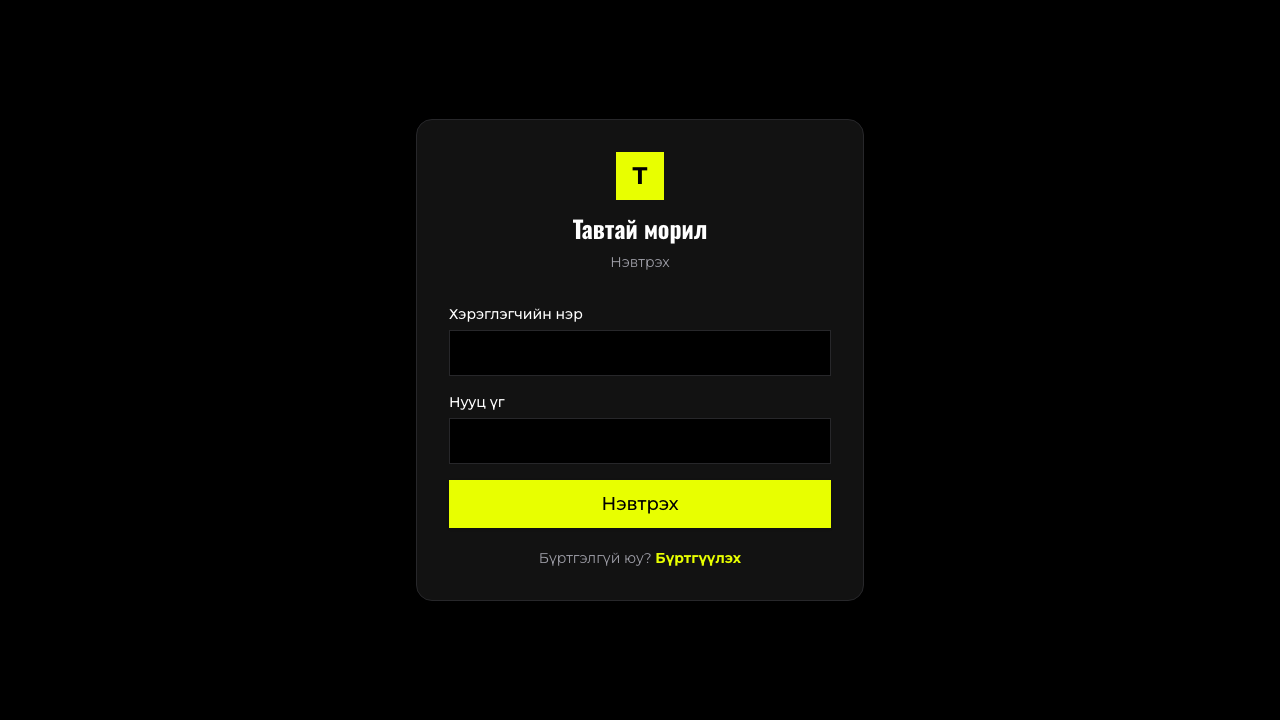
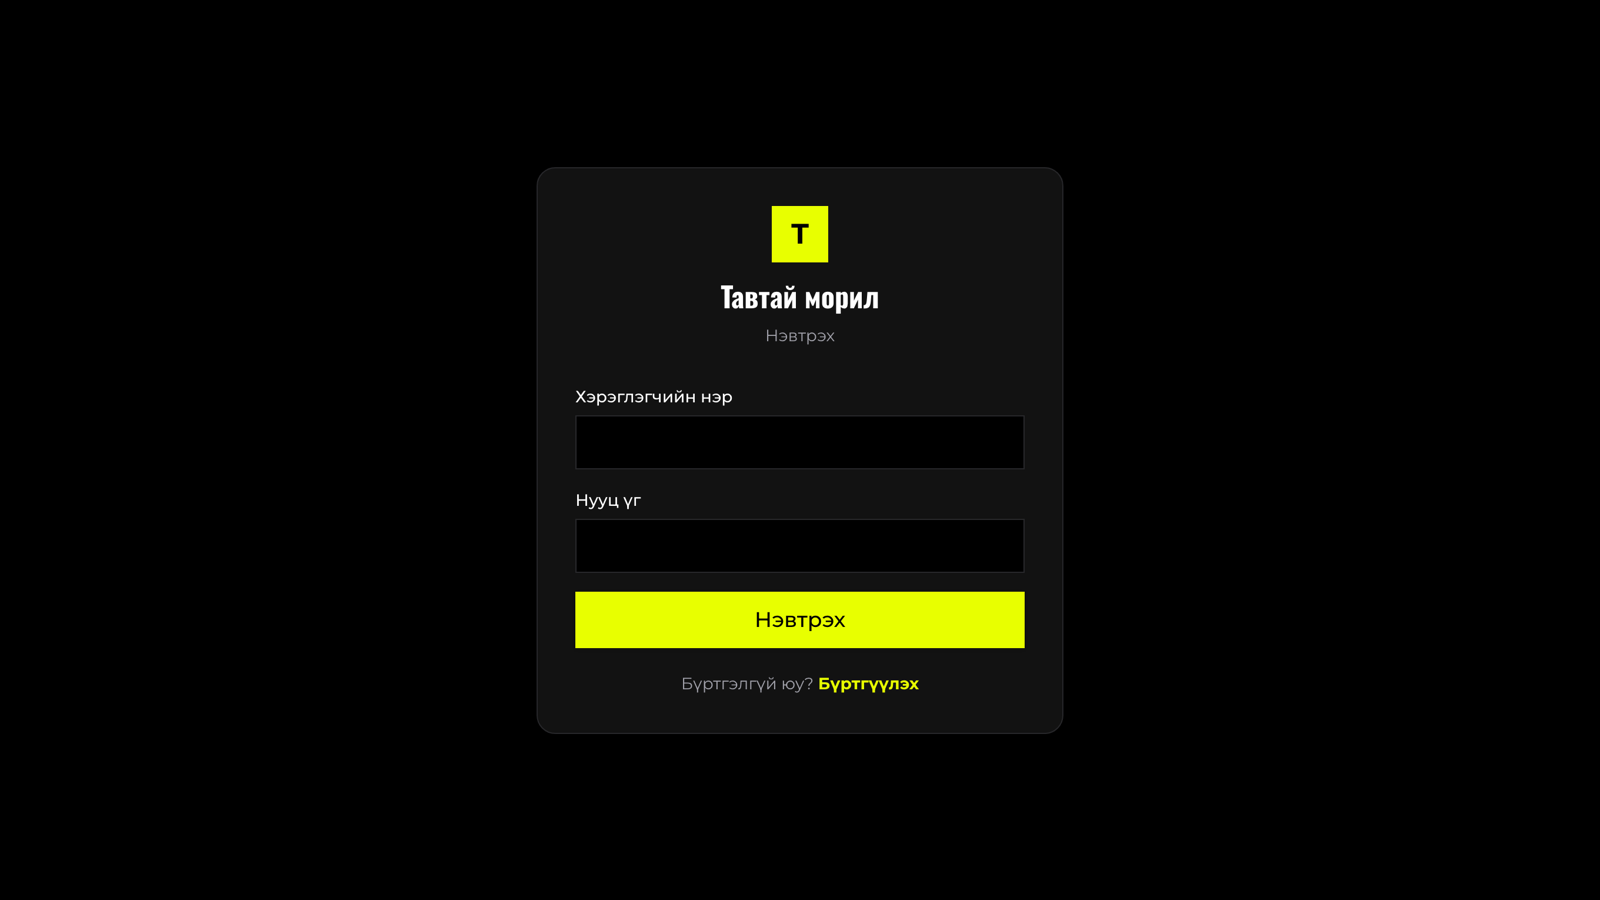
Add Personal Life OS and Zity Shop projects, replace placeholder covers with real site screenshots

diff --git a/src/data/constants.js b/src/data/constants.js
@@ -262,6 +262,30 @@ export const educationMn = [
 
 export const projectsMn = [
   {
+    id: 26,
+    title: "Personal Life OS",
+    date: "2026 оны 8 сар - Одоо",
+    description:
+      "AI-д суурилсан хувийн амьдралын удирдлагын систем. Өдөр тутмын төлөвлөгөө, зорилго, дадал, тэмдэглэл, календарь, цаг агаарын мэдээллийг нэг дороос удирдах Life OS платформ. Next.js frontend, FastAPI backend, Docker infrastructure бүхий monorepo бүтэцтэй.",
+    image: "/img/projects/personal-lifestyle.png",
+    tags: ["Next Js", "TypeScript", "FastAPI", "PostgreSQL", "Docker"],
+    category: "web app",
+    github: "https://github.com/unenbat623/personal-lifestyle",
+    webapp: "https://web-omega-one-16.vercel.app/",
+  },
+  {
+    id: 27,
+    title: "Zity Shop",
+    date: "2026 оны 8 сар",
+    description:
+      "Zity Chef Complex-ийн албан ёсны e-commerce веб апп. Odoo ERP-тэй бодит цагийн барааны үлдэгдэл, захиалгын sync, QPay төлбөрийн урсгал, хоолны жорын орц багц худалдан авах Zity Chef ecosystem интеграцтай.",
+    image: "/img/projects/zity-shop.jpg",
+    tags: ["React 19", "TypeScript", "Odoo ERP", "Zustand", "Tailwind CSS"],
+    category: "web app",
+    github: "https://github.com/unenbat623/zity-shop",
+    webapp: "https://zity-shop.vercel.app",
+  },
+  {
     id: 0,
     title: "Djgeo.mn",
     date: "2024 оны 6 сар - 2024 оны 9 сар",
@@ -342,7 +366,7 @@ export const projectsMn = [
     title: "Zeel.mn",
     date: "2024 оны 10 сар - 2024 оны 12 сар",
     description: "Зээлийн мэдээлэл, төлөлтийн хуваарь болон хэрэглэгчийн удирдлагыг нэг дороос хянах боломжтой зээлийн удирдлагын систем.",
-    image: "/zeel.jpg",
+    image: "/img/projects/zeel.jpg",
     tags: ["React Js", "TypeScript", "Node JS", "PostgreSQL"],
     category: "web app",
     webapp: "https://zeel.mn/",
@@ -404,7 +428,7 @@ export const projectsMn = [
     title: "Todo List",
     date: "2026 оны 5 сар",
     description: "Даалгавар нэмэх, засах, устгах, жагсаалтаа удирдах боломжтой TypeScript todo апп.",
-    image: projectCover("Todo List", "Task manager", "#3b82f6", "code"),
+    image: "/img/projects/todo-list.png",
     tags: ["TypeScript", "React Js", "Vercel"],
     category: "web app",
     github: "https://github.com/unenbat623/todo_list",
@@ -425,7 +449,7 @@ export const projectsMn = [
     title: "Enola Shop",
     date: "2026 оны 4 сар",
     description: "Онлайн дэлгүүрийн бүтээгдэхүүн харах, shop layout, deployment workflow бүхий e-commerce веб апп.",
-    image: projectCover("Enola Shop", "Онлайн дэлгүүр", "#f97316", "shop"),
+    image: "/img/projects/enola-shop.jpg",
     tags: ["TypeScript", "React Js", "Render"],
     category: "web app",
     github: "https://github.com/unenbat623/enola-shop",
@@ -436,7 +460,7 @@ export const projectsMn = [
     title: "My Portfolio",
     date: "2024 оны 5 сар - 2026 оны 4 сар",
     description: "Өөрийн танилцуулга, туршлага, ур чадвар, төслүүдийг харуулах responsive portfolio website.",
-    image: projectCover("My Portfolio", "Хувийн portfolio", "#818cf8", "code"),
+    image: "/img/projects/my-portfolio.png",
     tags: ["JavaScript", "React Js", "Three.js"],
     category: "web app",
     github: "https://github.com/unenbat623/my-portfolio",
@@ -458,7 +482,7 @@ export const projectsMn = [
     title: "Valentine",
     date: "2026 оны 2 сар",
     description: "Interactive Valentine theme-тэй веб experience. Animation, visual layout, responsive design дээр төвлөрсөн төсөл.",
-    image: projectCover("Valentine", "Interactive web experience", "#ec4899", "code"),
+    image: "/img/projects/valentine.png",
     tags: ["TypeScript", "React Js", "Animation"],
     category: "web app",
     github: "https://github.com/unenbat623/Valentine-",
@@ -874,6 +898,30 @@ export const education = [
 // ── English projects — all images use local /img/ paths ──
 export const projects = [
   {
+    id: 26,
+    title: "Personal Life OS",
+    date: "Aug 2026 - Present",
+    description:
+      "An AI-powered personal life operating system for managing daily plans, goals, habits, notes, calendar, and weather in one place. Built as a monorepo with a Next.js frontend, FastAPI backend, and Docker-based infrastructure.",
+    image: "/img/projects/personal-lifestyle.png",
+    tags: ["Next Js", "TypeScript", "FastAPI", "PostgreSQL", "Docker"],
+    category: "web app",
+    github: "https://github.com/unenbat623/personal-lifestyle",
+    webapp: "https://web-omega-one-16.vercel.app/",
+  },
+  {
+    id: 27,
+    title: "Zity Shop",
+    date: "Aug 2026",
+    description:
+      "The official e-commerce web app for Zity Chef Complex, integrated with Odoo ERP for real-time stock and order sync, QPay payment flows, and recipe meal-kit bundles from the Zity Chef ecosystem.",
+    image: "/img/projects/zity-shop.jpg",
+    tags: ["React 19", "TypeScript", "Odoo ERP", "Zustand", "Tailwind CSS"],
+    category: "web app",
+    github: "https://github.com/unenbat623/zity-shop",
+    webapp: "https://zity-shop.vercel.app",
+  },
+  {
     id: 5,
     title: "Car Rental Web App",
     date: "Feb 2025 - Mar 2025",
@@ -954,7 +1002,7 @@ export const projects = [
     title: "Zeel.mn",
     date: "Oct 2024 - Dec 2024",
     description: "A loan management system for tracking loan information, repayment schedules, and customer workflows in one place.",
-    image: "/zeel.jpg",
+    image: "/img/projects/zeel.jpg",
     tags: ["React Js", "TypeScript", "Node JS", "PostgreSQL"],
     category: "web app",
     webapp: "https://zeel.mn/",
@@ -1016,7 +1064,7 @@ export const projects = [
     title: "Todo List",
     date: "May 2026",
     description: "A TypeScript todo application for creating, editing, deleting, and organizing tasks.",
-    image: projectCover("Todo List", "Task manager", "#3b82f6", "code"),
+    image: "/img/projects/todo-list.png",
     tags: ["TypeScript", "React Js", "Vercel"],
     category: "web app",
     github: "https://github.com/unenbat623/todo_list",
@@ -1037,7 +1085,7 @@ export const projects = [
     title: "Enola Shop",
     date: "Apr 2026",
     description: "An e-commerce web app with product browsing, shop layouts, and deployment workflow practice.",
-    image: projectCover("Enola Shop", "E-commerce storefront", "#f97316", "shop"),
+    image: "/img/projects/enola-shop.jpg",
     tags: ["TypeScript", "React Js", "Render"],
     category: "web app",
     github: "https://github.com/unenbat623/enola-shop",
@@ -1048,7 +1096,7 @@ export const projects = [
     title: "My Portfolio",
     date: "May 2024 - Apr 2026",
     description: "A responsive personal portfolio website for presenting my profile, experience, skills, and projects.",
-    image: projectCover("My Portfolio", "Personal portfolio", "#818cf8", "code"),
+    image: "/img/projects/my-portfolio.png",
     tags: ["JavaScript", "React Js", "Three.js"],
     category: "web app",
     github: "https://github.com/unenbat623/my-portfolio",
@@ -1070,7 +1118,7 @@ export const projects = [
     title: "Valentine",
     date: "Feb 2026",
     description: "An interactive Valentine-themed web experience focused on animation, visual layout, and responsive design.",
-    image: projectCover("Valentine", "Interactive web experience", "#ec4899", "code"),
+    image: "/img/projects/valentine.png",
     tags: ["TypeScript", "React Js", "Animation"],
     category: "web app",
     github: "https://github.com/unenbat623/Valentine-",
